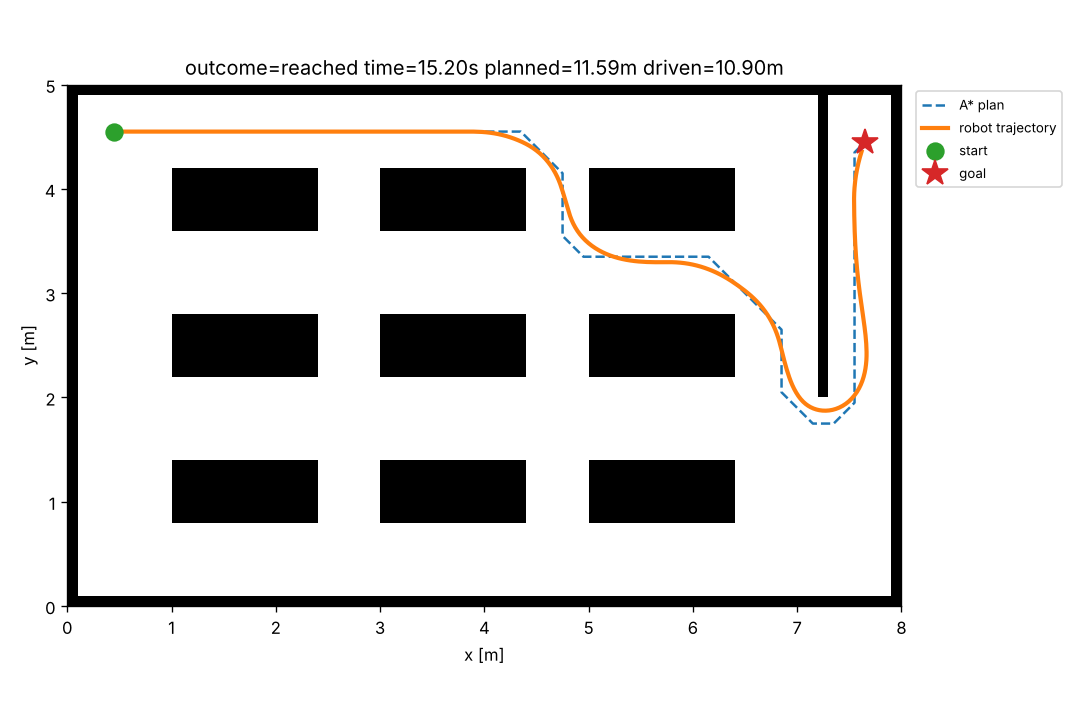
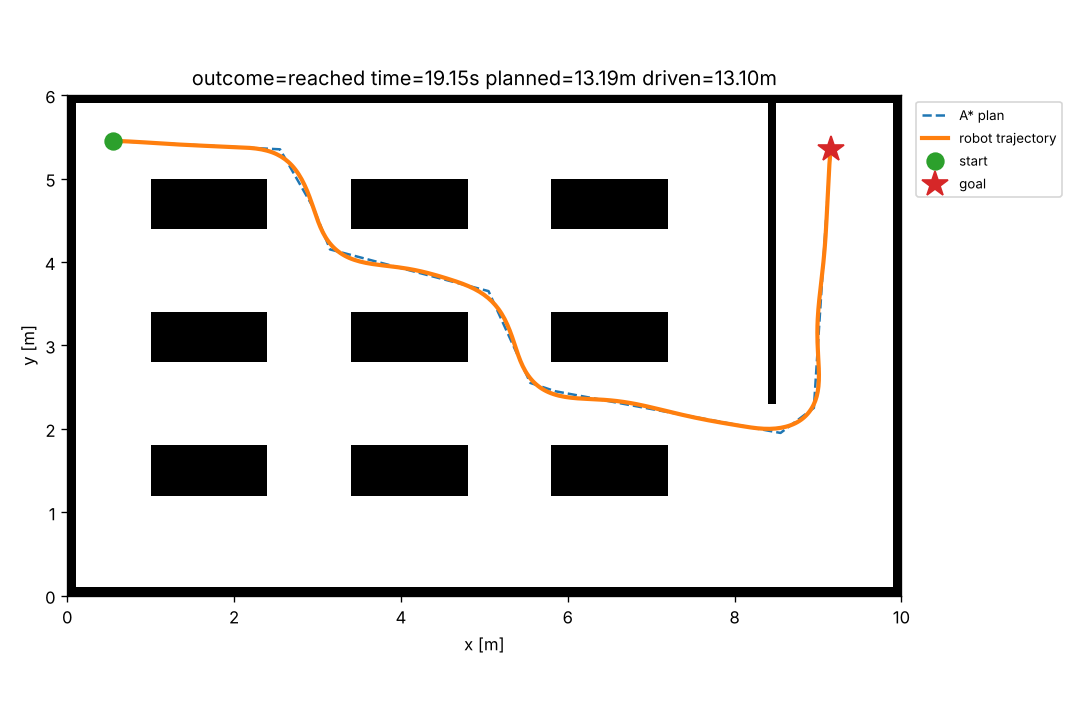
docs: README results, CHANGELOG, ROADMAP, examples; bump to 0.2.0

diff --git a/examples/robot_demo.py b/examples/robot_demo.py
@@ -1,0 +1,31 @@
+"""Drive the robot model on its own, without a map or planner.
+
+Run from the repository root, after `pip install -e .`:
+
+    python examples/robot_demo.py
+
+Commands a constant forward speed and turn rate, so the robot traces a circle of
+radius v / omega = 1 m. Watch the v column: with motor lag the speed takes about
+0.5 s to reach the command. Try changing V, OMEGA and LAG (0 = instant motors).
+"""
+
+import math
+
+from navkit.geometry import Pose
+from navkit.robot import DifferentialDriveRobot, RobotLimits, Twist
+
+V, OMEGA, LAG, DT = 0.5, 0.5, 0.25, 0.05  # m/s, rad/s, s, s
+
+robot = DifferentialDriveRobot(Pose(0.0, 0.0, 0.0), RobotLimits(response_time=LAG))
+cmd = Twist(V, OMEGA)
+
+print(f"{'t [s]':>6} {'x [m]':>7} {'y [m]':>7} {'theta [deg]':>12} {'v [m/s]':>8}")
+for step in range(1, 141):
+    pose = robot.step(cmd, DT)
+    if step % 10 == 0:
+        print(
+            f"{step * DT:6.2f} {pose.x:7.3f} {pose.y:7.3f} "
+            f"{math.degrees(pose.theta):12.1f} {robot.velocity.linear:8.3f}"
+        )
+
+print(f"\nexpected circle radius v/omega = {V / OMEGA:.2f} m")

diff --git a/src/navkit/__init__.py b/src/navkit/__init__.py
@@ -4,4 +4,4 @@ from navkit.geometry import Point, Pose
 from navkit.grid_map import OccupancyGrid
 
 __all__ = ["OccupancyGrid", "Point", "Pose"]
-__version__ = "0.1.0"
+__version__ = "0.2.0"

diff --git a/src/navkit/__main__.py b/src/navkit/__main__.py
@@ -1,0 +1,5 @@
+"""Allows `python -m navkit ...` as an alternative to the `navkit` command."""
+
+from navkit.cli import main
+
+raise SystemExit(main())

diff --git a/README.md b/README.md
@@ -1,6 +1,6 @@
 # navkit
 
-[![CI](https://github.com/yosefco1232ERNAME/navkit/actions/workflows/ci.yml/badge.svg)](https://github.com/yosefco1232ERNAME/navkit/actions/workflows/ci.yml)
+[![CI](https://github.com/yosefco1232/navkit/actions/workflows/ci.yml/badge.svg)](https://github.com/yosefco1232/navkit/actions/workflows/ci.yml)
 ![Python](https://img.shields.io/badge/python-3.11%20%7C%203.12%20%7C%203.13-blue)
 ![License](https://img.shields.io/badge/license-MIT-green)
 
@@ -10,10 +10,20 @@ It covers the core pipeline every autonomous robot runs: **map → plan → trac
 ![demo](docs/demo.gif)
 
 ```
-$ navkit run maps/warehouse.txt --plot docs/demo.png
-outcome=reached time=15.20s planned=11.59m driven=10.90m
-A* expanded 1185 cells
+$ navkit compare maps/warehouse.txt --plot docs/compare.png
 ```
+
+| config | time [s] | planned [m] | RMS CTE [cm] | max CTE [cm] | min clearance [cm] | peak lat. accel [m/s²] |
+|---|---|---|---|---|---|---|
+| v0.1 baseline | 18.35 | 13.86 | 2.9 | 7.6 | 26.6 | 1.41 |
+| **v0.2 default** | 19.15 | **13.19** | **2.1** | **6.1** | **28.1** | **0.60** |
+
+v0.2 drives a 5% shorter path, tracks it 20–28% more accurately and cuts peak lateral
+acceleration by 57% (to the configured 0.6 m/s² limit), for 0.8 s (4%) more travel time.
+CTE = cross-track error, the distance between the robot and the planned path.
+Simulated with a 0.25 s first-order motor lag.
+
+![comparison](docs/compare.png)
 
 ## Features
 
@@ -21,10 +31,13 @@ A* expanded 1185 cells
 |---|---|
 | `grid_map` | Immutable occupancy grid, world ↔ cell transforms, obstacle inflation by robot radius |
 | `planning.astar` | 8-connected A* with octile heuristic, no corner cutting, search statistics |
-| `robot` | Differential-drive kinematics with exact arc integration, speed limits that preserve curvature, acceleration limits |
-| `control.pure_pursuit` | Pure Pursuit path tracking with goal slow-down and turn-in-place |
-| `simulation` | Closed-loop runner reporting `reached / collision / timeout / no_path` |
-| `viz`, `cli` | Plots, animated GIFs and a `navkit` command-line tool |
+| `planning.smoothing` | Line-of-sight shortcutting (Bresenham) as a `SmoothedPlanner` decorator, path resampling |
+| `robot` | Differential-drive kinematics with exact arc integration, curvature-preserving speed limits, acceleration limits, first-order motor lag |
+| `control.pure_pursuit` | Pure Pursuit with speed-adaptive lookahead and exact circle–path intersection |
+| `control.velocity_profile` | Curvature-constrained speed profile with a backward braking pass, so the robot slows *before* corners |
+| `simulation` | Closed-loop runner with footprint collision checking; `reached` requires the robot to be stopped |
+| `metrics` | Cross-track error, obstacle clearance and lateral acceleration, all vectorized with numpy |
+| `viz`, `cli` | Plots, comparison charts, animated GIFs, `navkit run` and `navkit compare` |
 
 ## Architecture
 
@@ -45,27 +58,52 @@ A* expanded 1185 cells
 Design decisions:
 
 - **Planners share a `Planner` protocol**, so adding Dijkstra, Theta* or RRT does not touch the simulator.
-- **Plan on an inflated grid, check collisions on the real one.** This lets the planner treat the robot as a point.
+- **Plan with a safety margin, check collisions against the real footprint.** Obstacles are inflated by
+  robot radius + margin for planning; the margin is the room the controller has to deviate.
 - **Speed saturation scales `v` and `ω` together**, so a clamped command still follows the same arc.
 - **Grids are immutable** (read-only numpy arrays), which avoids a whole class of aliasing bugs.
+- **Measure, then tune.** Every controller change is judged by `navkit compare`, and the result is locked
+  in by a regression test (`test_v02_is_gentler_and_more_accurate_than_baseline`).
+
+## What the metrics caught
+
+Adding measurements in v0.2 surfaced problems that the v0.1 tests passed right over:
+
+1. **Footprint collisions.** v0.1 only checked the robot's *center* against obstacles. Minimum clearance
+   was 12.7 cm for a 20 cm-radius robot, so its body was scraping the shelves.
+2. **Adaptive lookahead looked useless.** In a sim with instant motor response, a short fixed lookahead won on
+   every metric. Adding a realistic motor lag made short lookaheads oscillate, which reproduced the textbook
+   trade-off. Lesson: a controller is only as good as the plant model it is tuned on.
+3. **A floating-point off-by-one.** `ceil((0.2 + 0.1) / 0.1)` is 4, not 3, so the safety inflation was
+   silently one cell too large. Now fixed and pinned by a test.
+4. **"Reached" at full speed.** The sim used to stop as soon as the robot entered the goal radius, at 0.65 m/s.
+   It now requires a full stop, which revealed 1.3 s of braking that the baseline time had been hiding.
 
 ## Quick start
 
 ```bash
-git clone https://github.com/yosefco1232ERNAME/navkit.git
+git clone https://github.com/yosefco1232/navkit.git
 cd navkit
 python -m venv .venv && source .venv/bin/activate
 pip install -e ".[dev]"
 
 navkit run maps/warehouse.txt --plot out.png --gif out.gif
+navkit compare maps/warehouse.txt --plot compare.png
 ```
 
 Write your own map with `#` for obstacles, `.` for free space, `S` for start and `G` for goal.
 
+The files in `src/navkit/` are library modules, not scripts. Install the package first (`pip install -e .`),
+then use the `navkit` command (or `python -m navkit`), the tests, or the scripts in `examples/`:
+
+```bash
+python examples/robot_demo.py   # the robot model on its own: a circle, with and without motor lag
+```
+
 ## Development
 
 ```bash
-pytest --cov          # 37 tests, ~97% coverage
+pytest --cov          # 65 tests, ~97% coverage
 ruff check . && ruff format --check .
 mypy                  # strict mode
 ```
@@ -77,10 +115,6 @@ Notable tests:
 - `test_matches_dijkstra_on_random_maps` checks A* against uniform-cost search on 20 random maps: same optimal cost, never more expansions.
 - `test_integrate_half_circle` checks the kinematic model against the closed-form solution.
 - `test_warehouse_end_to_end` runs the full pipeline and asserts the robot never enters an obstacle.
-
-## Roadmap
-
-See [ROADMAP.md](ROADMAP.md). Next up: path smoothing, adaptive lookahead, dynamic obstacles with replanning, and a C++ A* core via pybind11.
 
 ## License
 

diff --git a/CHANGELOG.md b/CHANGELOG.md
@@ -1,0 +1,23 @@
+# Changelog
+
+## v0.2.0 — Better paths and tracking
+
+### Added
+- `SmoothedPlanner`: line-of-sight shortcutting (Bresenham, no corner cutting) and path resampling.
+- `VelocityProfile`: curvature-limited speed (`v²κ ≤ a_lat`) with a backward braking pass.
+- Pure Pursuit: speed-adaptive lookahead, exact circle–segment lookahead point, cross-track error.
+- Robot: first-order motor lag (`response_time`).
+- `OccupancyGrid.clearance` / `collides`: exact disk-vs-cells footprint check.
+- `metrics` module and `navkit compare` command with a comparison plot.
+
+### Changed
+- Simulation plans with `robot_radius + safety_margin` and checks collisions with the real footprint.
+- `reached` now requires the robot to be stopped at the goal.
+- Warehouse map redesigned with 1 m aisles.
+
+### Fixed
+- Collision check ignored the robot's body (center-point only).
+- `inflate` rounded `0.30000000000000004 / 0.1` up to 4 cells instead of 3.
+
+## v0.1.0 — Core pipeline
+- Occupancy grid, A*, differential-drive model, Pure Pursuit, simulator, CLI, CI.
